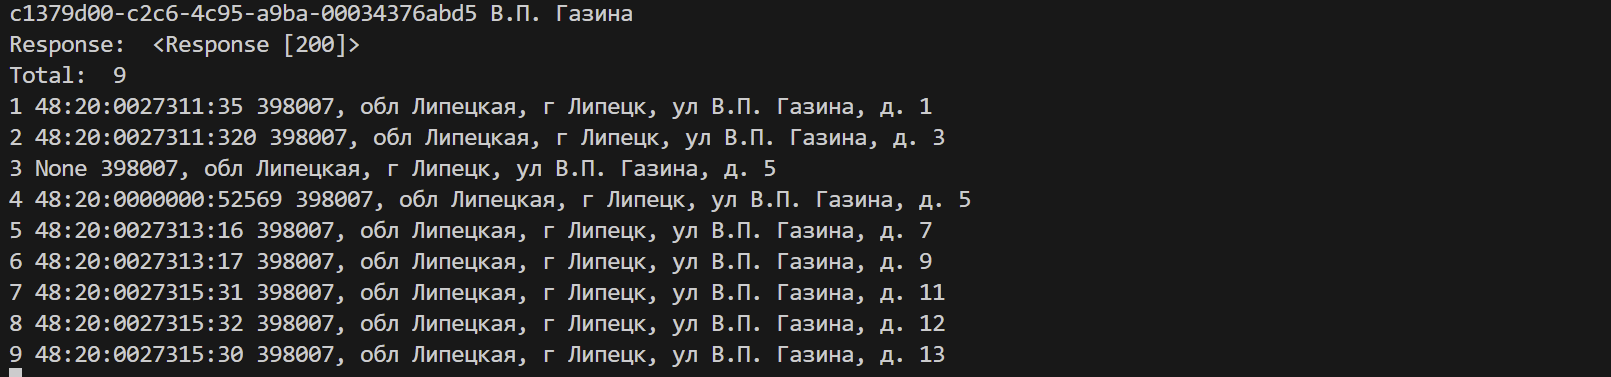
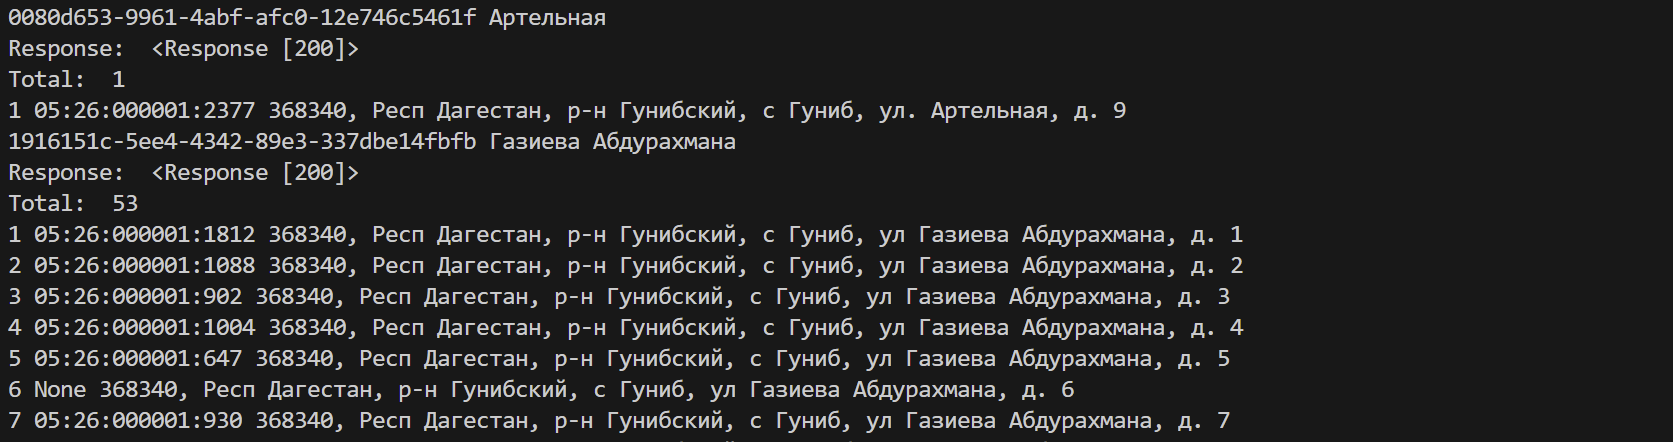
Describle building fetching

Changed region(s): [[0.0, 0.5836, 0.7449, 1.0], [0.0, 0.0875, 0.7449, 0.5544], [0.0, 0.0, 0.4035, 0.0584]]

diff --git a/get-buildings/03-get-buildings.py b/get-buildings/03-get-buildings.py
@@ -3,11 +3,11 @@ import json
 import time
 from pathlib import Path
 
-region = '1490490e-49c5-421c-9572-5673ba5d80c8'
-area = None # 'e23ad948-ac70-40e7-bc90-88935d668086'
-city = 'eacb5f15-1a2e-432e-904a-ca56bd635f1b' #'f073b28a-b8f8-4eee-adfd-cfbf769c6771'
-settlement = None #'66453ea6-2a7d-4a39-82c5-aabaa8f7f074'
-resultdir = Path.cwd() / 'get-buildings' / 'lipetsk'
+region = '0bb7fa19-736d-49cf-ad0e-9774c4dae09b'
+area = '47e1fc4c-4ad1-4d03-91f7-981184adcbe7'
+city = None
+settlement = '36022007-8503-4d34-92d9-cc82dfb7a496'
+resultdir = Path.cwd() / 'get-buildings' / 'gunib'
 
 def GetBuildings(request,id):
     reqURL = 'https://dom.gosuslugi.ru/homemanagement/api/rest/services/houses/public/searchByAddress'

diff --git a/get-buildings/02-get-region-cities.py b/get-buildings/02-get-region-cities.py
@@ -1,4 +1,4 @@
-region = '1490490e-49c5-421c-9572-5673ba5d80c8'
+region = '0bb7fa19-736d-49cf-ad0e-9774c4dae09b'
 
 import requests
 

diff --git a/README.md b/README.md
@@ -21,7 +21,7 @@
 1. Please, install `python 3` from https://www.python.org/
 
 2. Install `vtk` library for python https://vtk.org/ and several others via:
-    ```
+    ```console
     pip install vtk
     pip install tifffile
     pip install pyproj
@@ -30,19 +30,19 @@
     pip install imagecodecs
     ```
     For getting vector map of buildings you need also:
-    ```
+    ```console
     pip install requests
     pip install osmium
     ```
     We use own copy in `modules` folder of python [`geotiff`](https://github.com/KipCrossing/geotiff.git) library, because our [pull request](https://github.com/KipCrossing/geotiff/pull/74) has not been processed yet. If you already have this library installed, please uninstall it.
 
 3. Clone this repository. In any folder run:
-    ```
+    ```console
     git clone https://github.com/st-korn/urbanmegaphone.git
     ```
 
 3. Run our script immediately, because all folders contains sampla data (fake, but it is enough to demonstration):
-    ```
+    ```console
     cd urbanmegaphone
     ./urbanmegaphone.py
     ```
@@ -80,11 +80,11 @@ Note that northern points have a higher `latitude` coordinate value than souther
 \
 ![Raster's pixel coordinate system](/images/coord3.png)
 
-- Internal integer coordinate system of primitive voxel wolrd. We find lowrest `x,y,z` coordinates and put then in `(0,0,0)` of our new world. Then we use an accuracy value (default `3m`) for an voxel edge. The whole world is built from these voxels. All world details smaller than half a voxel edge are considered as an error and are ignored.\
+- Internal integer coordinate system of primitive voxel wolrd. We find lowrest `x,y,z` coordinates and put then in `(0,0,0)` of our new world. Then we use an accuracy value (default `3m`) for an voxel edge. The whole world is built from these voxels. All world details smaller than half a voxel edge are considered as an inaccuracy and are ignored.\
 \
 ![Voxel's world coordinate system](/images/coord4.png)
 
-- Render window of **Visualization ToolKit** library has its own coordinate system. `y`-axis is directed upwards. Horizontal `z`-axis is directed away from us. Therefore, all points of our 3D-world are located in the negative half of `z`-axis. Coordinate values in VTK's coordinate system equals internal integer coordiates. But they don't have to be integers. They can take real values where needed. For example, to more accurately display the relief of the earth's surface.\
+- Render window of **Visualization ToolKit** library has its own coordinate system. `y`-axis is directed upwards. Horizontal `z`-axis is directed right at us. Coordinate values in VTK's coordinate system equals internal integer coordiates. But they don't have to be integers. They can take real values if needed. For example, to more accurately display the relief of the earth's surface.\
 \
 ![VTK's 3D rendering coordinate system](/images/coord5.png)
 <sub><sup>3D-city designed by [Freepik](www.freepik.com)</sup></sub>
@@ -251,6 +251,63 @@ You need to have raster tiles of map to put them on background of your city. The
 
 ## 3. Vector map of buildings
 
-You need a GeoJSON with all buildings of your city. It is based on international OpenStreetMap data.
+You need a GeoJSON with all buildings of your city. It is based on international [OpenStreetMap](https://osm.org/) data. But OpenStreetMap contains insufficient information of building's floors and no information about count of flats. Still 2024 year most buildings in OpenStreetMap have tag `building=yes` without defenition of building's type (residential or commercial).
 
-### 3.1 
+### 3.2 dom.gosuslugi.ru
+
+In Russia Federation you can start at [ГИС ЖКХ](dom.gosuslugi.ru) - public information system about housing and communal services. If there are no such service in your county, you can add this information manual later.
+
+Run `get-buildings\01-get-regions.py` script to collect UUIDs of Russia regions:
+
+![Regions of Russia Federation](/images/get-regions.PNG)
+
+Paste this UUID into first line of `get-buildings\02-get-region-cities.py` script:
+
+```python
+region = '0bb7fa19-736d-49cf-ad0e-9774c4dae09b'
+```
+
+and run it:
+
+![List of cities and villages](/images/get-cities2.PNG)
+
+First you got UUIDs of central cities, next - UUIDs of area's cities, than - UUIDs of area's other settlements. Find line you need.
+
+Next go to `get-buildings\03-get-buildings.py` and change its first lines:
+
+```python
+region = '0bb7fa19-736d-49cf-ad0e-9774c4dae09b'
+area = '47e1fc4c-4ad1-4d03-91f7-981184adcbe7'
+city = None
+settlement = '36022007-8503-4d34-92d9-cc82dfb7a496'
+resultdir = Path.cwd() / 'get-buildings' / 'gunib'
+```
+
+Change here `region` code.
+For central city write `city` code and write `None` to `area` and `settlement`.
+For area's cities write `area` and `city` codes, and put `None` to the `settlement`.
+For other settlements write `area` and `settlement` code and put `None` to the `city`.
+
+| Category | region | area | city | settlement |
+| -------- | ------ | ---- | ---- | ---------- |
+| Central city | [x] | None | [x] | None |
+| Area's city | [x] | [x] | [x] | None |
+| Other settlement | [x] | [x] |  None | [x] |
+
+Be sure to write correct name of folder to download building information in `resultdir` variable.
+
+The script will get territories and streets of the city and than loop throgh them and fetch buildings for each.
+
+![Getting buildings](/images/get-buildings.PNG)
+
+If you are unexpectedly blocked, you got `403 error`. Wait few minutes and just restart script. It will be continued.
+
+![403 blocked](/images/get-buildings2.PNG)
+
+This script create in your forlder these files:
+
+![Files of buildings](/images/get-buildings3.PNG)
+
+- `territories.json` and `streets.json` - list of territories and streets
+- `UUID-1.json` - first 100 (or less) buildings of the territory or street
+- `UUID-2.json`, `UUID-3.json` and more - next 100 (or less) buildings
